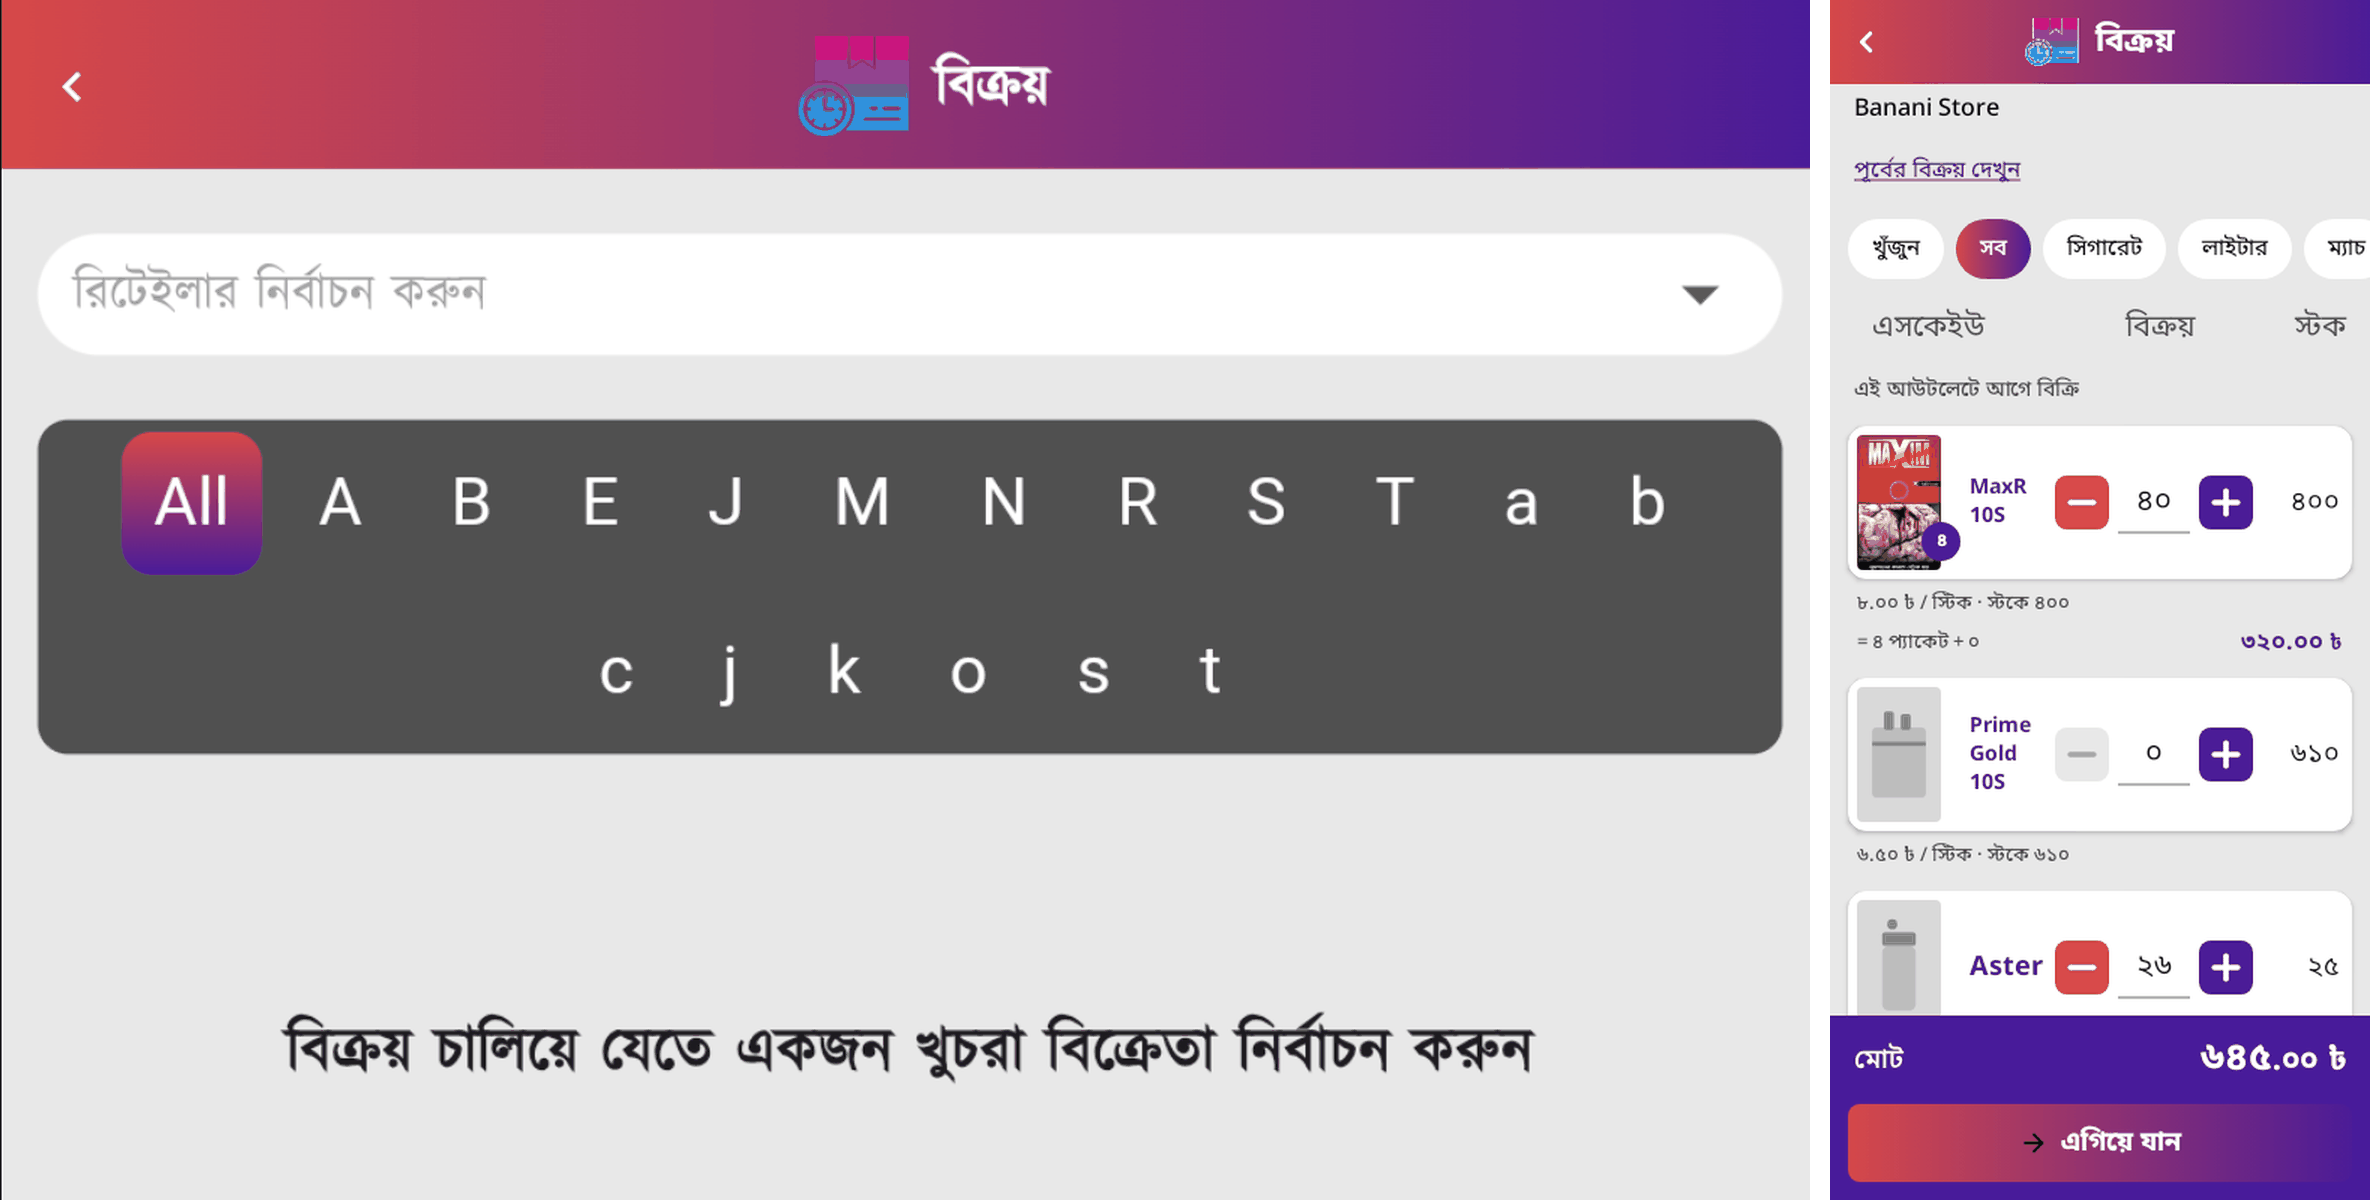
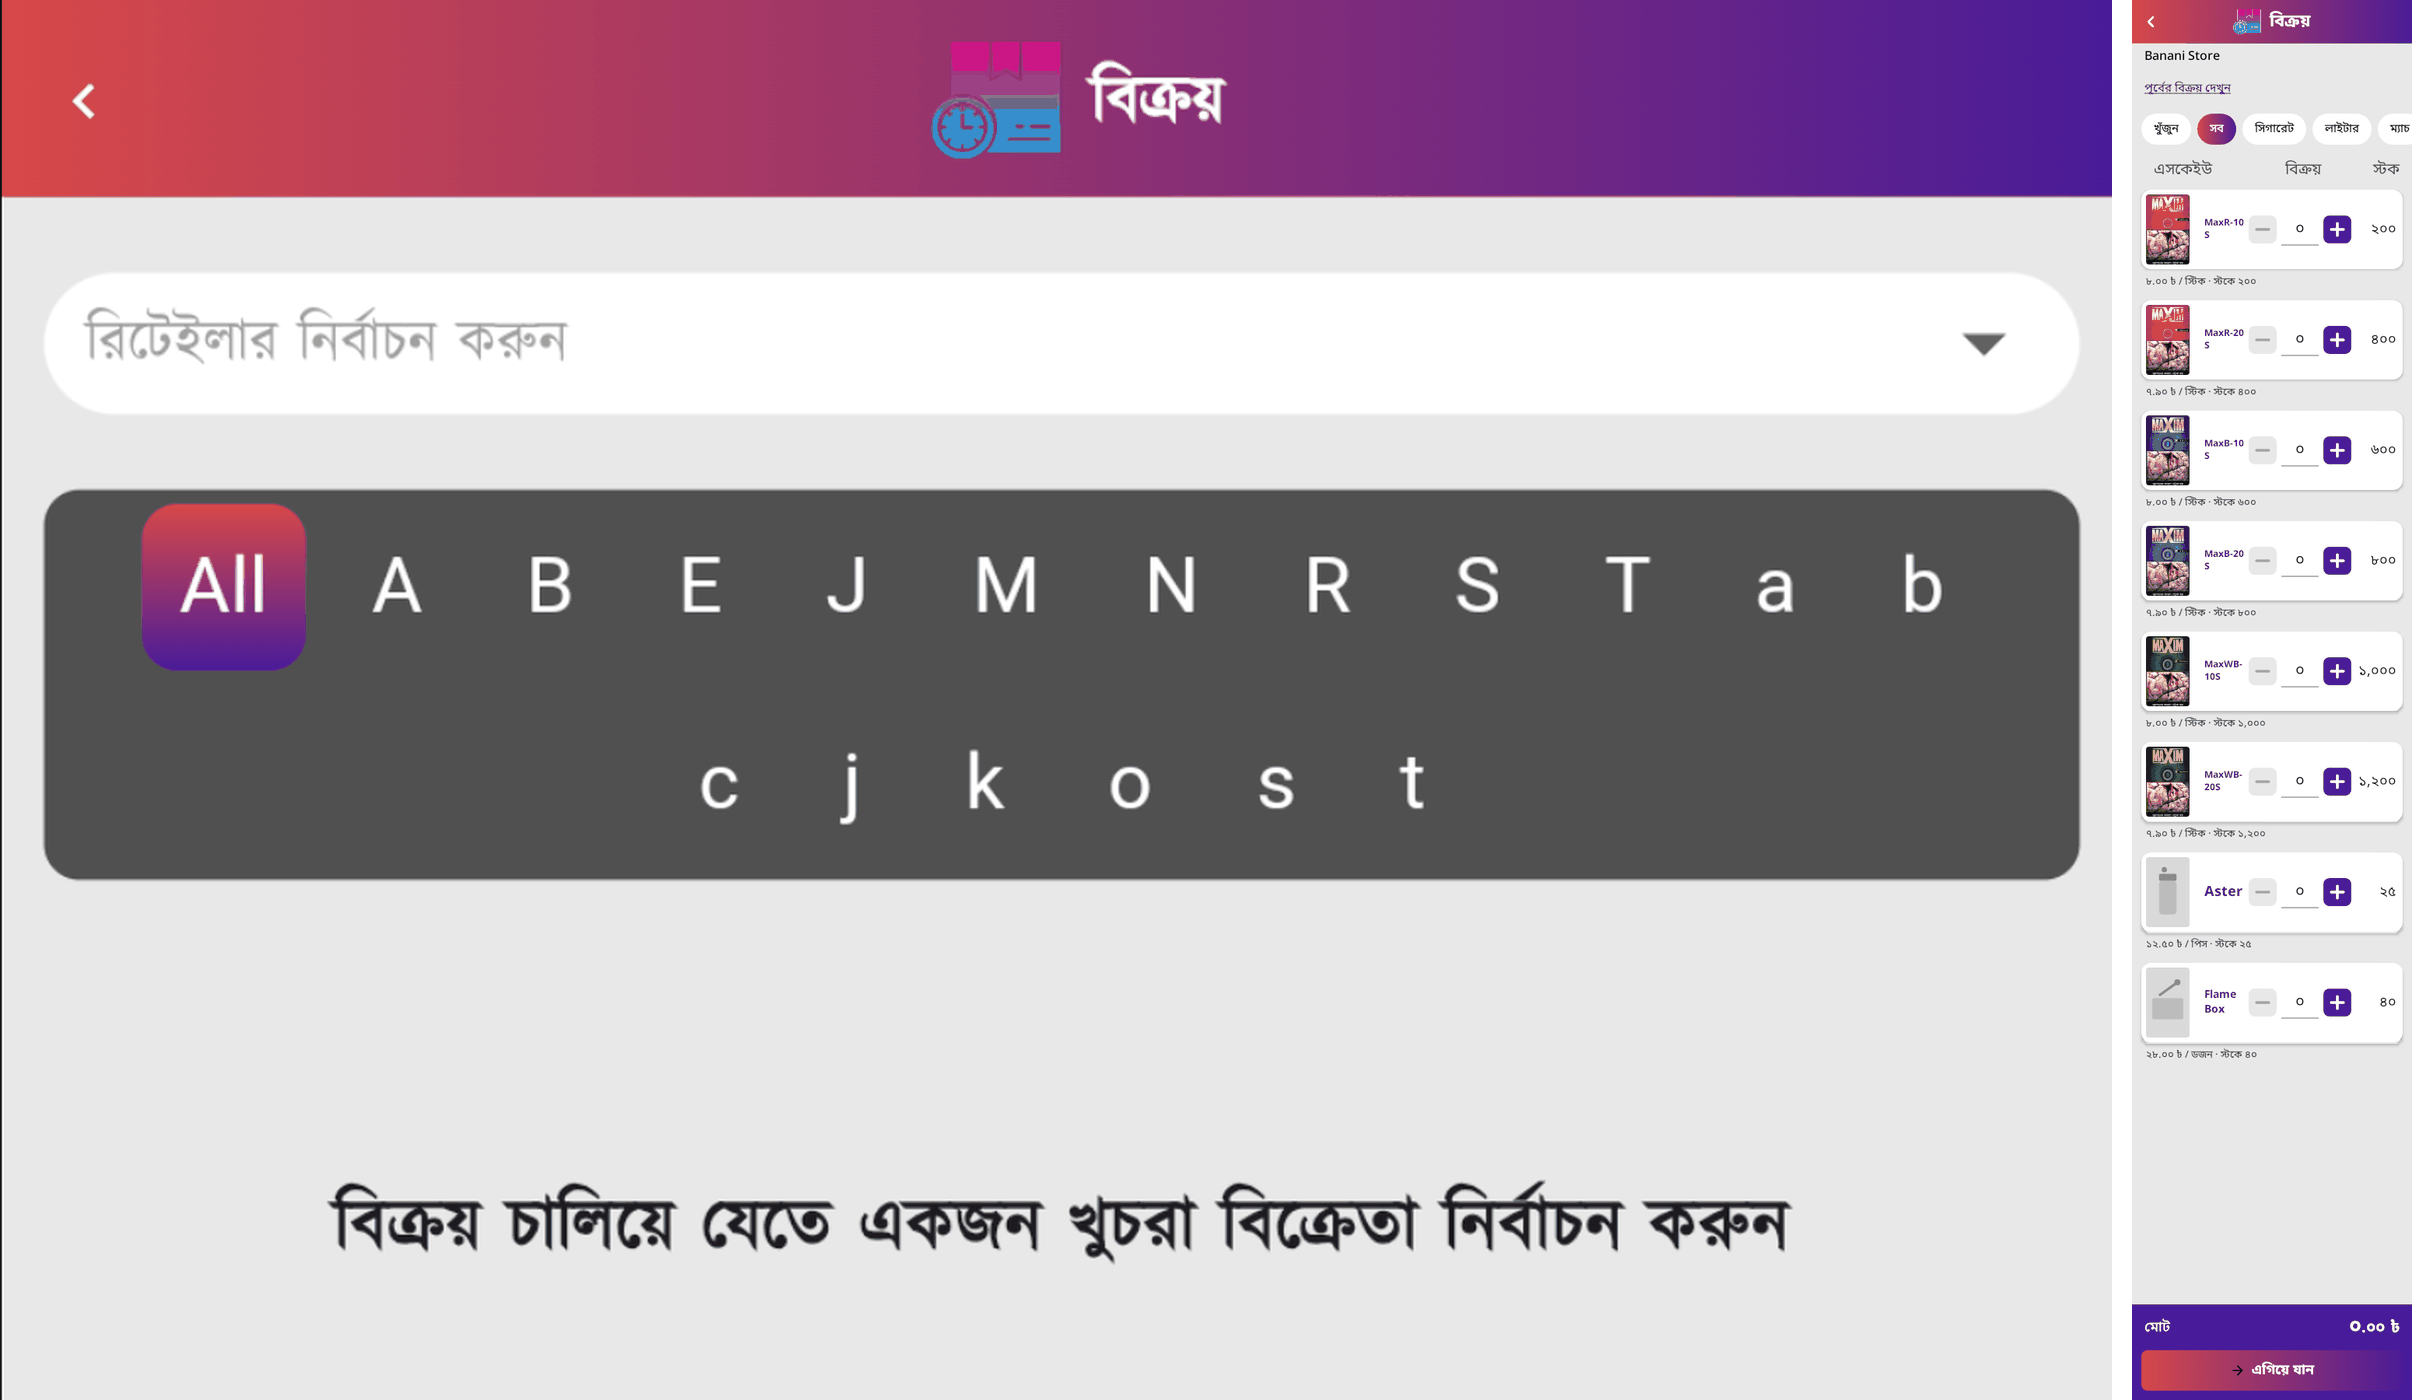
ui-packshots: evidence with every seeded Maxim SKU (vision QA 2026-10-19)
stock_bn_packshots now holds all six seeded Maxim SKUs (MaxR, MaxB, MaxWB 10S and 20S), and a new
sale_bn_packshots shows them in the Sale list with Aster and Flame Box as silhouettes (no art);
tall captures, so every row is visible. The dev mapping already covered all six (index.txt);
TestPackshots maps the evidence fixture ids. packshots-stock.png and packshots-sale.png rebuilt
from the parity shell only.

Claude-Session: https://claude.ai/code/session_01P2zXc4NJ6VRE8SfkBxCPJv

diff --git a/android/ui-screenshots/src/test/kotlin/com/aktcl/aron/uiscreenshots/ScreenshotTests.kt b/android/ui-screenshots/src/test/kotlin/com/aktcl/aron/uiscreenshots/ScreenshotTests.kt
@@ -256,13 +256,25 @@ class ScreenshotTests {
         StockContent(stockRows, stockTotals, StockMessage.SAVED, slipNotPrinted = true, onIssue = { _, _ -> }, onSave = {}, onPrint = {})
     }
 
-    /** PARITY-SPEC s2.6 evidence: the five SKUs of docs/ui-reference/sr/stock.webp with their (dev) pack pictures. */
+    /** The six Maxim SKUs of the dev seed (db/seed/02_products.sql): every one has dev art (android/dev-packshots). */
+    private val maximSeed = listOf("MaxR-10S" to 10, "MaxR-20S" to 20, "MaxB-10S" to 10, "MaxB-20S" to 20, "MaxWB-10S" to 10, "MaxWB-20S" to 20)
+
+    /** PARITY-SPEC s2.6 evidence: every seeded Maxim SKU (the SKUs of docs/ui-reference/sr/stock.webp) with its dev pack picture. */
     @Composable private fun StockPackshots() = ParityFrame(stringResource(HomeR.string.hm_tile_stock), com.aktcl.aron.core.ui.R.drawable.aron_art_stock, printerConnected = false) {
-        val rows = listOf("MaxR-10S" to 10, "MaxR-20S" to 20, "MaxB-10S" to 10, "MaxB-20S" to 20, "MaxWB-10S" to 10).mapIndexed { i, (code, per) ->
+        val rows = maximSeed.mapIndexed { i, (code, per) ->
             val id = 200L + i
             StockRow(SkuEntity(id, code, id, "cigarette", code, code, null, "stick", per, "pack", null, "1.000", i, "active", 1), 0, 0)
         }
         StockContent(rows, emptyList(), null, slipNotPrinted = false, onIssue = { _, _ -> }, onSave = {}, onPrint = {})
+    }
+
+    /** PARITY-SPEC s2.6 evidence: the Sale list with every seeded Maxim SKU (pictures) and a lighter and a match without art (silhouettes). */
+    @Composable private fun SalePackshots() = ParityFrame(stringResource(SaleR.string.sale_title), com.aktcl.aron.core.ui.R.drawable.aron_art_sale, subtitle = card.name) {
+        val list = maximSeed.mapIndexed { i, (code, per) ->
+            SaleSku(300L + i, code, "cigarette", code, null, "stick", per, if (per == 10) 8_000 else 7_900, 1, "2026-09-01", stockBase = 200L * (i + 1))
+        } + listOf(aster, match)
+        val review = SaleReviewCalculator.review(draft(), list.associateBy { it.skuId })
+        SaleEntryScreen(list, review, { 0 }, { _, _ -> }, {}, {}, onPreviousSales = {})
     }
 
     @Composable private fun Picker() = ParityFrame(stringResource(HomeR.string.hm_tile_sale), com.aktcl.aron.core.ui.R.drawable.aron_art_sale) {
@@ -354,7 +366,9 @@ class ScreenshotTests {
 
     // ---- Stock ----
     @Test @Config(qualifiers = "bn-w360dp-h800dp") fun stock_bn_light() = shot("stock_bn_light", AppLanguage.BN) { Stock() }
-    @Test @Config(qualifiers = "bn-w360dp-h800dp") fun stock_bn_packshots() = shot("stock_bn_packshots", AppLanguage.BN) { StockPackshots() }
+    // Tall captures so every seeded Maxim row is in the evidence (docs/evidence/ui-parity/packshots-*.png).
+    @Test @Config(qualifiers = "bn-w360dp-h1300dp") fun stock_bn_packshots() = shot("stock_bn_packshots", AppLanguage.BN) { StockPackshots() }
+    @Test @Config(qualifiers = "bn-w360dp-h1800dp") fun sale_bn_packshots() = shot("sale_bn_packshots", AppLanguage.BN) { SalePackshots() }
     @Test @Config(qualifiers = "bn-w360dp-h800dp") fun stock_bn_sunlight() = shot("stock_bn_sunlight", AppLanguage.BN, sunlight = true) { Stock() }
 
     // ---- Outlet picker ----

diff --git a/android/ui-screenshots/src/test/kotlin/com/aktcl/aron/uiscreenshots/TestPackshots.kt b/android/ui-screenshots/src/test/kotlin/com/aktcl/aron/uiscreenshots/TestPackshots.kt
@@ -9,16 +9,15 @@ import java.io.File
 /**
  * The dev pack pictures (android/dev-packshots, PARITY-SPEC s2.6) for the goldens: the same files and index the dev APK
  * bundles, served from memory so the first frame already shows them (deterministic captures). The fixtures' SKU ids map
- * to seed codes here as the app's local catalogue does: 1 and 100 are "MaxR 10S"; 200..204 are the five SKUs of
- * docs/ui-reference/sr/stock.webp (ScreenshotTests.StockPackshots). Every other id shows the silhouette.
+ * to seed codes here as the app's local catalogue does: 1 and 100 are "MaxR 10S"; 200..205 (Stock) and 300..305 (Sale)
+ * are the six seeded Maxim SKUs (ScreenshotTests.StockPackshots, SalePackshots). Every other id shows the silhouette.
  */
 val TestPackshots: PackshotProvider = BitmapPackshotProvider({ id -> DevArt.picture(id) }, { id -> DevArt.picture(id) })
 
 private object DevArt {
     private val codes = mapOf(
         "1" to "MaxR-10S", "100" to "MaxR-10S",
-        "200" to "MaxR-10S", "201" to "MaxR-20S", "202" to "MaxB-10S", "203" to "MaxB-20S", "204" to "MaxWB-10S",
-    )
+    ) + listOf("MaxR-10S", "MaxR-20S", "MaxB-10S", "MaxB-20S", "MaxWB-10S", "MaxWB-20S").flatMapIndexed { i, code -> listOf("${200 + i}" to code, "${300 + i}" to code) }
 
     private val root: File by lazy {
         generateSequence(File("").absoluteFile) { it.parentFile }

diff --git a/docs/status/ui-parity-ui-packshots.md b/docs/status/ui-parity-ui-packshots.md
@@ -58,11 +58,13 @@ WebP, 6.8 to 7.4 KB each (22 KB total in a dev APK), made by `tools/packshots/cr
 
 ## 4. Proof
 
-- `docs/evidence/ui-parity/packshots-stock.png` and `packshots-sale.png`: the reference on the left, ours on the right
-  (kit PackCard rows with the dev pictures).
+- `docs/evidence/ui-parity/packshots-stock.png` and `packshots-sale.png`: the reference on the left, ours on the right,
+  parity shell only (kit PackCard rows). Every seeded Maxim SKU (MaxR, MaxB, MaxWB, each 10S and 20S) shows its picture;
+  in Sale, Aster and Flame Box show the silhouette (no art). Goldens `stock_bn_packshots` and `sale_bn_packshots` (tall
+  captures, so every row is in the picture).
 - `PackshotWiringTest` (ui-screenshots): the kit PackCard rows of the new Stock and Sale screens ask the provider by the
   server SKU id, and the picture it returns is drawn; rows without a picture keep the silhouette.
-- Goldens: `stock_bn_packshots` (the five reference SKUs). The Stock and Sale goldens whose fixture has MaxR 10S are
+- Goldens: `stock_bn_packshots` and `sale_bn_packshots` (all six seeded Maxim SKUs). The Stock and Sale goldens whose fixture has MaxR 10S are
   re-recorded (they now show its picture); no other golden changes. The harness serves the dev crops (`TestPackshots`).
 - `SkuPackshotsTest` (dev mapping, no art in production, id lookup, cache key, admin thumbnail wins, broken or missing
   is null, downsampling) and `BitmapPackshotProviderTest` (first-frame memory hit, load, a failing source is the
